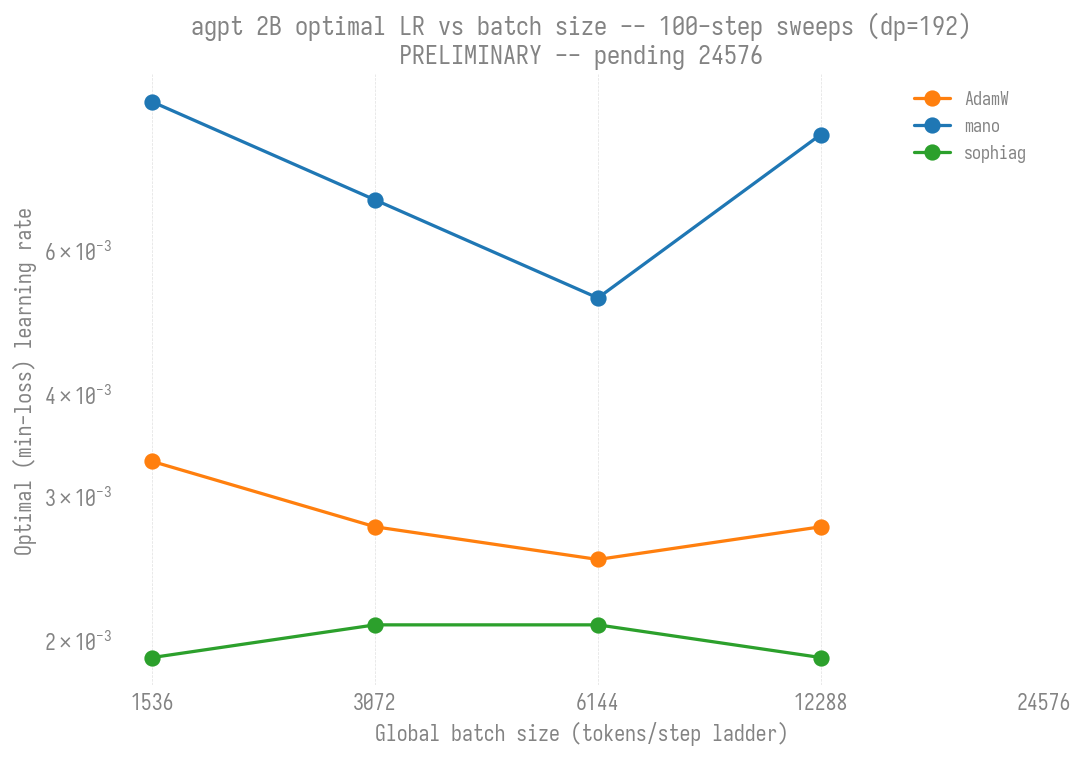
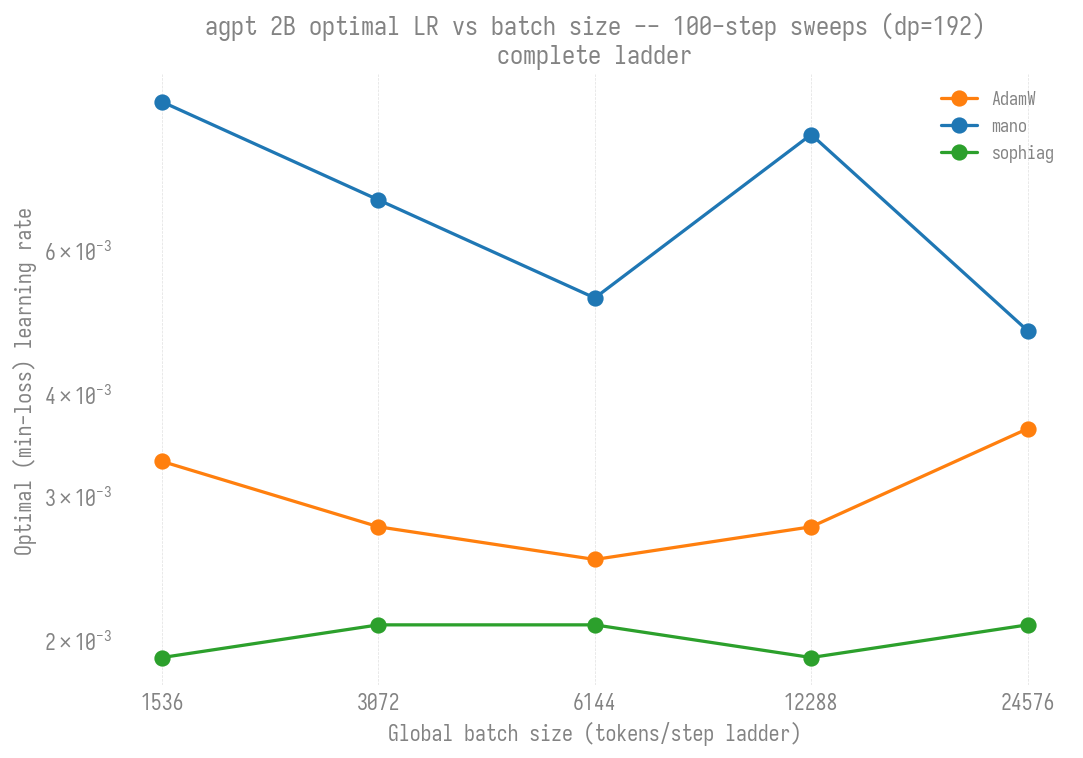
lr-finder(agpt/2b): complete 100-step production ladder (15/15)
Final 24576 tier in (0 NaN): adamw 3.6e-3/7.69, mano 4.8e-3/7.93,
sophiag 2.1e-3/8.27. Drops the PRELIMINARY marker; figures now say
'complete ladder'. Full 16x batch range (1536..24576) confirms the
15-step trend at the classic finder length: 0 NaN everywhere, no
batch-scaling, min-LR ~2-9e-3 (3-4 orders above the 80B 7e-7 cliff).

Also refreshes the docs-root recently-updated index table.

diff --git a/torchtitan/experiments/ezpz/docs/experiments/lr-finder/agpt/2b/README.md b/torchtitan/experiments/ezpz/docs/experiments/lr-finder/agpt/2b/README.md
@@ -140,11 +140,7 @@ classic finder length so the curves are smooth and the minima are deep. Run at
 comparable). Jobs 12469854-868, isolated dumps
 `outputs/lrfind-2b-100step-prod/gbs<N>/`.
 
-> **Status (2026-06-29): PRELIMINARY -- 12/15 jobs done.** The 1536 / 3072 /
-> **6144 (production)** / 12288 tiers are complete for all three optimizers
-> (0 NaN everywhere); only the 24576 tier is still computing (the long pole,
-> ~3h). Figures below are regenerated as jobs land, so they fill in
-> automatically. The headline production point (GBS=6144) is already in.
+**Complete (2026-06-29): all 15 jobs done, 0 NaN across the full ladder.**
 
 Everything on one axis, hue = optimizer and batch size encoded three ways at
 once (shade light->dark, width thin->thick, opacity faint->opaque, all
@@ -156,7 +152,7 @@ Optimal (min-loss) LR vs batch size, 100-step sweeps:
 
 ![2B 100-step production ladder, min-LR vs GBS](figures/lr_finder_2b_100step_prod_minlr_vs_gbs.png)
 
-Completed points so far (smoothed-min LR / loss, all 0 NaN):
+Smoothed-min LR / loss at every batch (all 0 NaN):
 
 | GBS | AdamW | mano | sophiag |
 |----:|-------|------|---------|
@@ -164,14 +160,18 @@ Completed points so far (smoothed-min LR / loss, all 0 NaN):
 | 3072 | 2.8e-3 / 7.69 | 6.9e-3 / 7.75 | 2.1e-3 / 8.28 |
 | **6144** (prod) | 2.5e-3 / 7.76 | 5.2e-3 / 7.92 | 2.1e-3 / 8.19 |
 | 12288 | 2.8e-3 / 7.85 | 8.3e-3 / 7.90 | 1.9e-3 / 8.24 |
-| 24576 | _pending_ | _pending_ | _pending_ |
+| 24576 | 3.6e-3 / 7.69 | 4.8e-3 / 7.93 | 2.1e-3 / 8.27 |
 
-Consistent with everything above: **0 NaN at every batch** (2B never cliffs,
-even at 100 steps + production batch), optimal LRs sit ~2e-3..9e-3 (4 orders of
-magnitude above the 80B cliff at ~7e-7), and the optimizer ordering is stable
-(mano's optimum ~2x AdamW's, sophiag's the lowest, at every batch). The deep
-minima (~7.7..8.3 vs ~11.5 at 15 steps) are the cumulative-training
-sweep-length effect, not a better LR -- compare by min-LR, not loss value.
+The 100-step ladder confirms the 15-step trend at the classic finder length:
+**0 NaN at every batch across the full 16x range** (2B never cliffs, even at
+100 steps + 4x the production batch), and **no batch-scaling trend** -- each
+optimizer's optimal LR is flat-to-shallow-U across the ladder (AdamW
+~2.5-3.6e-3, mano ~5-9e-3, sophiag dead flat ~2e-3), 3-4 orders of magnitude
+above the 80B cliff at ~7e-7. Optimizer ordering is stable (sophiag lowest,
+AdamW in the middle, mano highest) and the basin shape is consistent (AdamW
+widest, sophiag sharpest blow-up). The deep minima (~7.7..8.3 vs ~11.5 at 15
+steps) are the cumulative-training sweep-length effect, not a better LR --
+compare by min-LR, not loss value.
 
 ### Contrast with 80B (same dp=192)
 
@@ -274,7 +274,7 @@ blendcorpus (books), xccl.
 
 | Date | Machine | GBS | Optimizers | Nodes | Key Result |
 |------|---------|-----|-----------|-------|------------|
-| 2026-06-29 | Sunspot | 1536..24576 | AdamW, mano, sophiag | 16 | 100-step production ladder (PRELIM 9/15): 6144 done, 0 NaN, min-LR ~2-5e-3 |
+| 2026-06-29 | Sunspot | 1536..24576 | AdamW, mano, sophiag | 16 | 100-step production ladder (15/15): 0 NaN full range, no batch-scaling, min-LR ~2-9e-3 |
 | 2026-06-28 | Sunspot | 192..24576 | AdamW, mano, sophiag | 16 | LR-ceiling-vs-GBS trend: 2B never cliffs (flat ~1e-2, 0 NaN, 128x batch) |
 | 2026-04-21 | Sunspot | 24..384 | AdamW, Muon, SophiaG | 2 | torch-2.13 verify + GAS sweep; LR stable 4.9-9.0e-4 |
 | 2026-04-14 | Sunspot | 48 | AdamW, Muon, SophiaG | 2 | dim-aware init: AdamW 1.3e-3, Muon 2.4e-3 (3x higher) |
